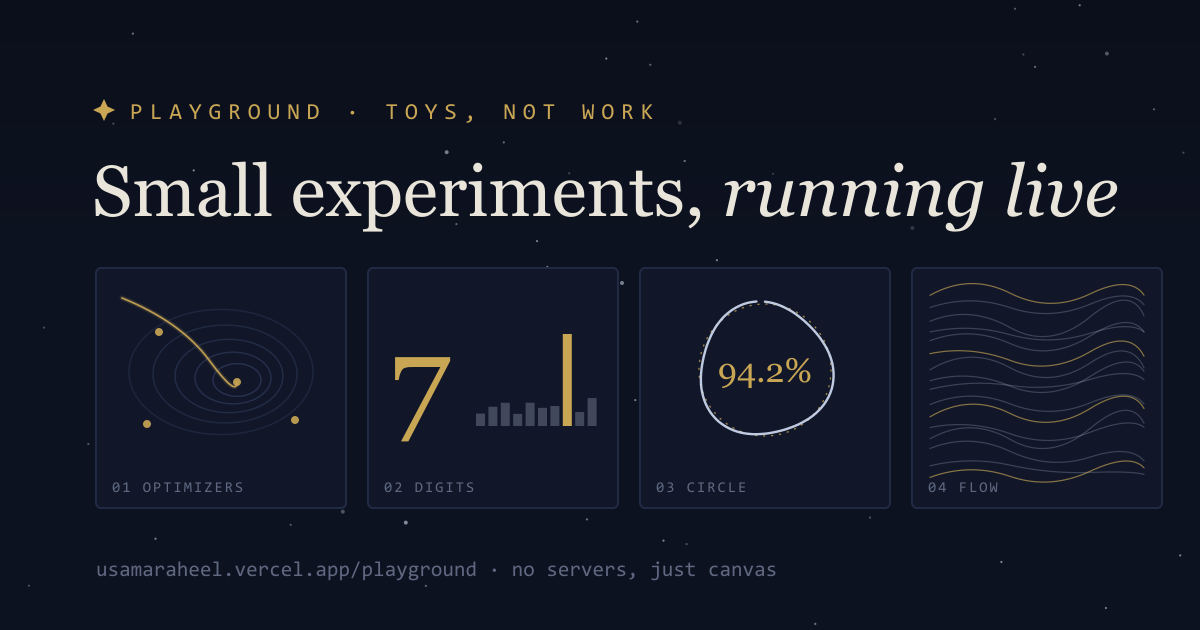
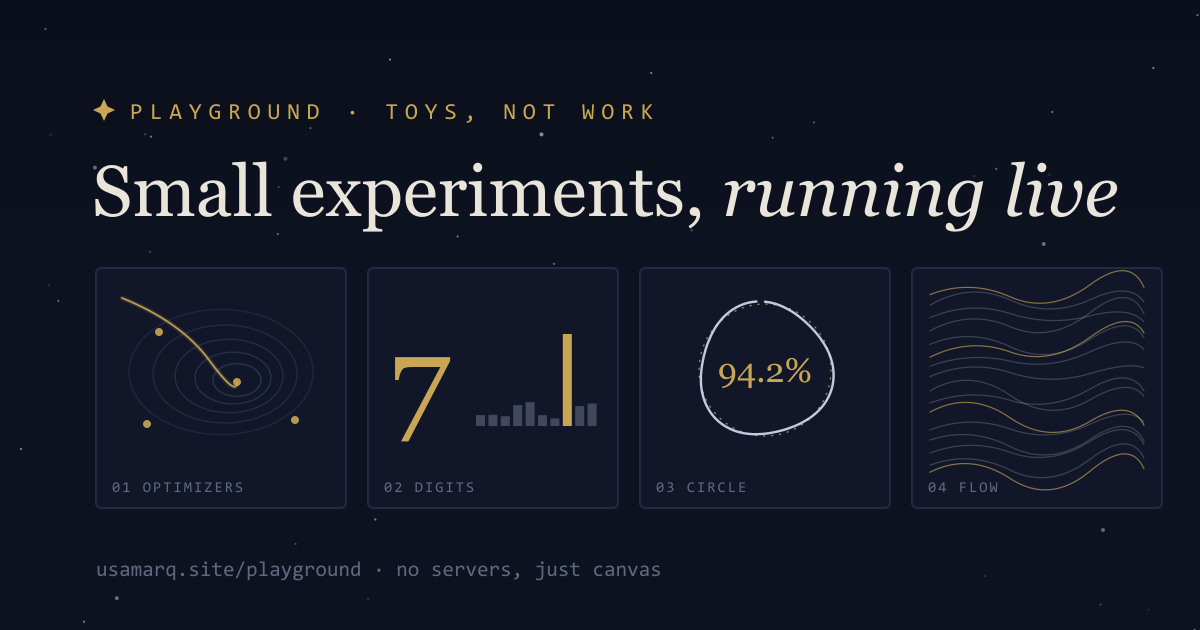
point the observatory at usamarq.site
The custom domain is live on Vercel: apex serves production, www 308s to
it. Move every absolute URL off the vercel.app alias — Astro's site (which
canonical, og:url, og:image and the sitemap all derive from), robots.txt,
and the OG image footers, regenerated.

The Ask worker kept an origin allowlist built from the old URL, so the
panel answered 403 to every visitor on the new domain. It now accepts the
apex, www, and the still-serving vercel.app alias.

Changed region(s): [[0.7708, 0.4222, 0.9558, 0.7841], [0.1542, 0.8746, 0.6475, 0.9349], [0.4008, 0.6333, 0.4933, 0.6635]]

diff --git a/worker/src/index.js b/worker/src/index.js
@@ -5,8 +5,15 @@
    through. The knowledge document is fetched from the site itself and
    cached, so the assistant always answers from what the site publishes. */
 
-const SITE = 'https://usamaraheel.vercel.app';
-const ALLOWED_ORIGINS = new Set([SITE, 'http://localhost:4321']);
+const SITE = 'https://usamarq.site';
+// www redirects to the apex and the old vercel.app alias still serves, so
+// both stay on the list — a visitor on either must not hit a CORS wall.
+const ALLOWED_ORIGINS = new Set([
+  SITE,
+  'https://www.usamarq.site',
+  'https://usamaraheel.vercel.app',
+  'http://localhost:4321',
+]);
 const MAX_QUESTION = 300;
 const MAX_TURNS = 10;
 const MAX_TURN_CHARS = 4000;

diff --git a/README.md b/README.md
@@ -1,4 +1,4 @@
-# tähtitorni ✦ usamaraheel.vercel.app
+# tähtitorni ✦ usamarq.site
 
 *Tähtitorni*, Finnish for observatory: the star tower. The personal site of
 Usama Raheel, AI Research Engineer in Oulu, Finland (65°N), built as a
